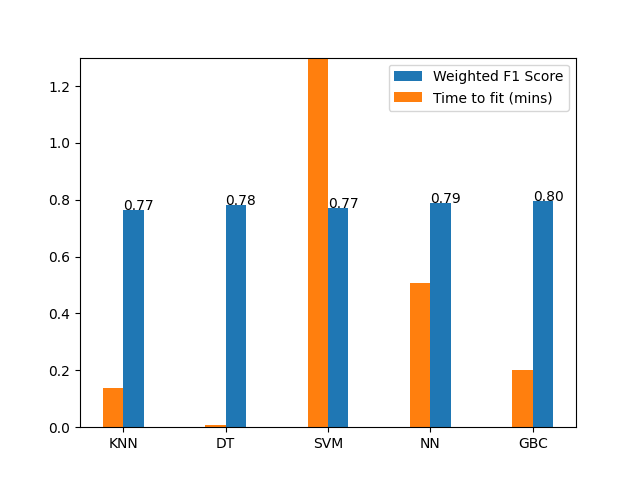
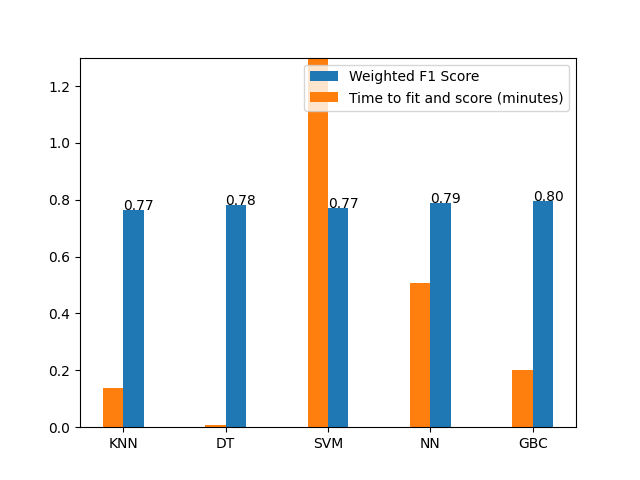
Update plot

Changed region(s): [[0.4688, 0.125, 0.875, 0.25]]

diff --git a/classification_problem_2/src/analysis.py b/classification_problem_2/src/analysis.py
@@ -161,7 +161,7 @@ def plot_comparison():
     plt.bar(x+width/2, scores, width=width, label="Weighted F1 Score")
     for i, v in enumerate(scores):
         plt.text(i, v, "{:.2f}".format(v))
-    plt.bar(x-width/2, times, width=width, label="Time to fit (mins)")
+    plt.bar(x-width/2, times, width=width, label="Time to fit and score (minutes)")
     plt.xticks(x, names)
     plt.ylim([0, 1.3])
     plt.legend()
